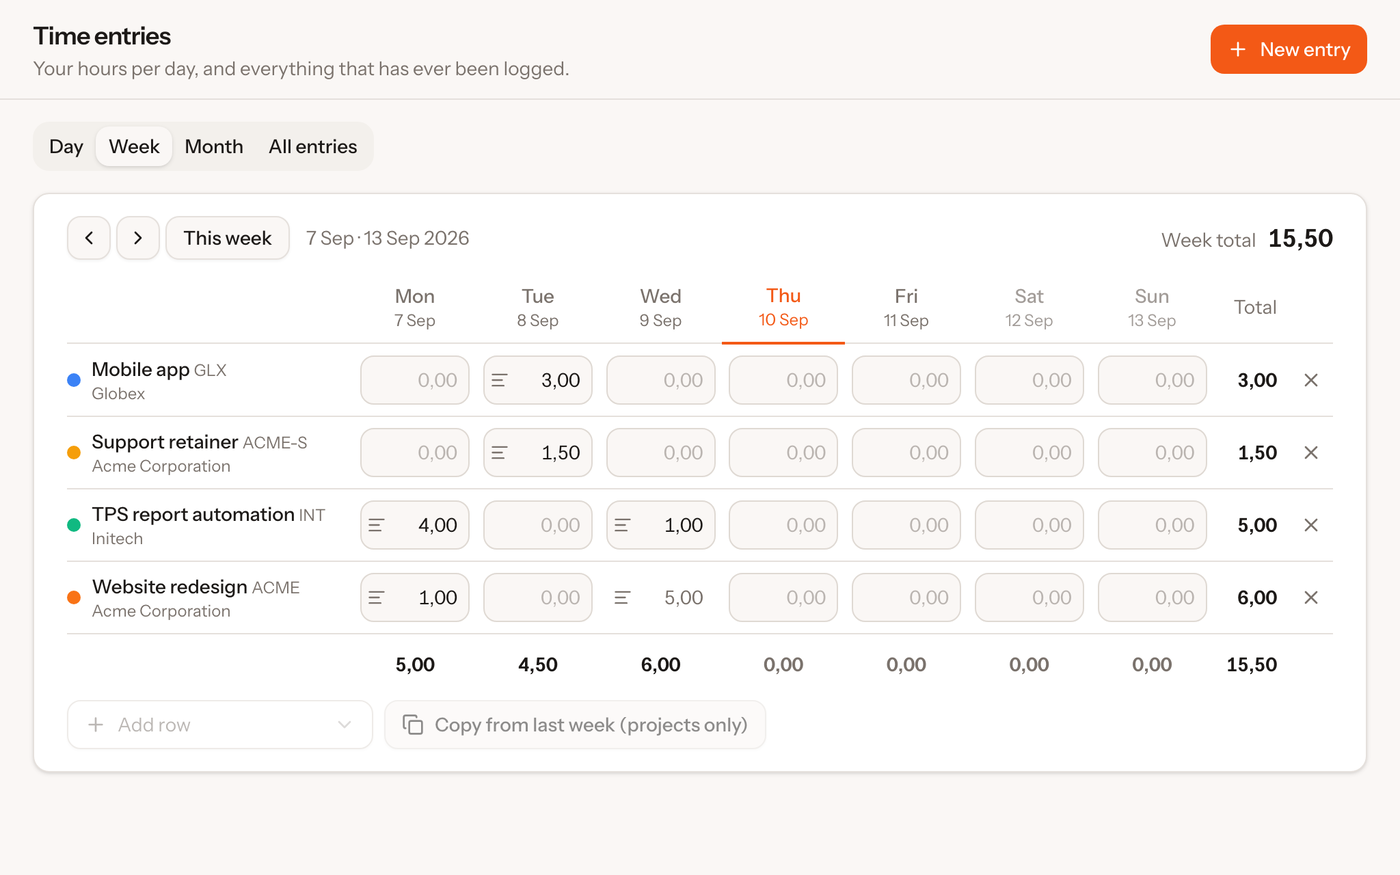
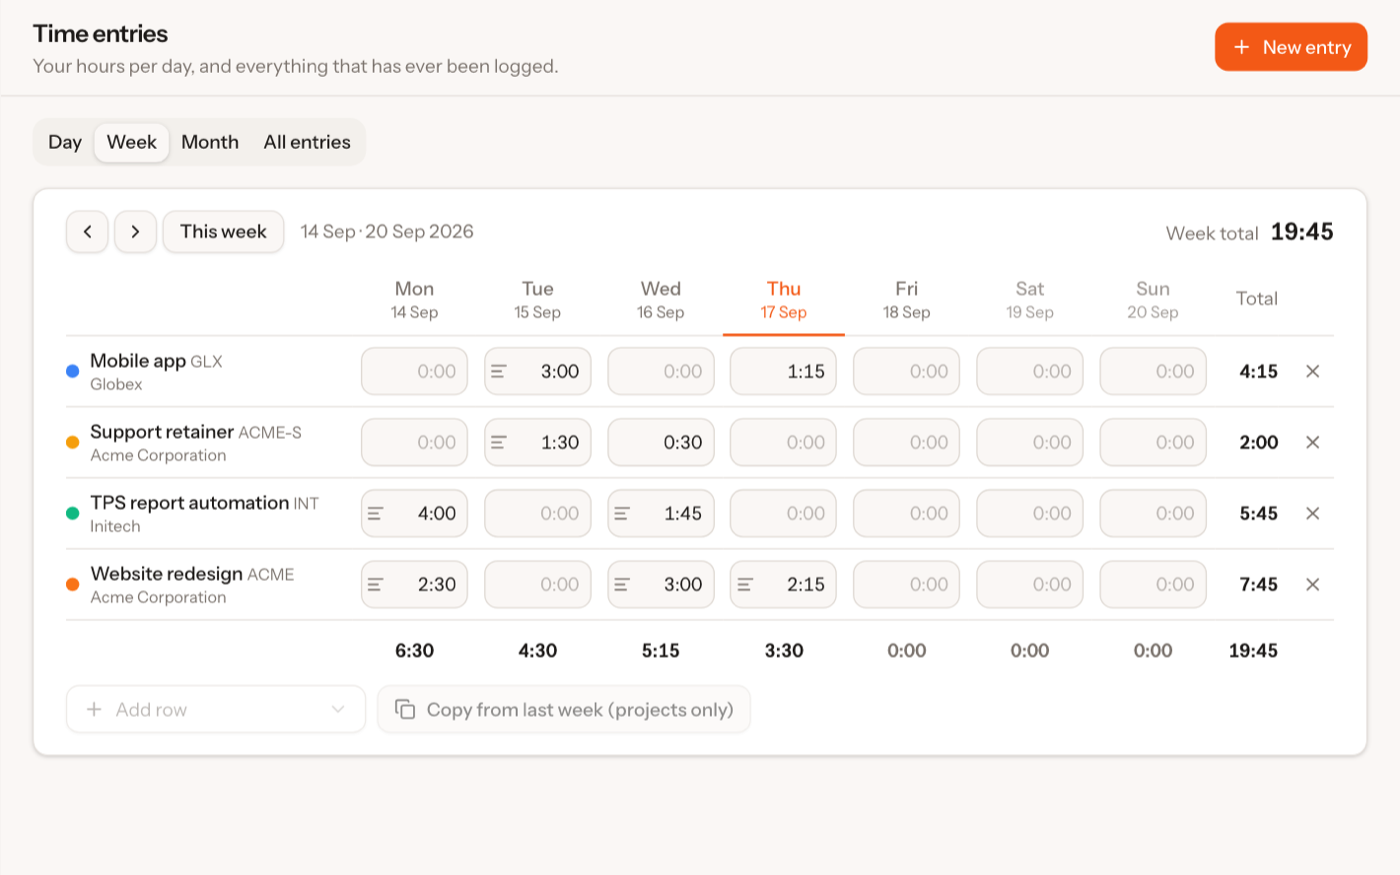
Product page: the day view and the play/pause pill in the screenshots and the copy
The hero and the Mac panel are rendered again by the app's snapshot
mode, which now draws the pill in the fake menu bar and gives the plain
panel a window background. The timesheet and dashboard cards are taken
again with hours as h:mm, and the copy tells about play and pause in the
menu bar, the day in the panel and typing hours as 1:30.

diff --git a/resources/js/pages/marketing/Home.vue b/resources/js/pages/marketing/Home.vue
@@ -30,13 +30,13 @@ const features = [
         icon: 'stopwatch',
         image: '/images/site/timesheet-card.png',
         title: 'Timesheet and timer',
-        text: 'A Monday to Sunday week strip with totals per day, a timer that keeps running on every page, and a filterable table of every hour you ever logged.',
+        text: 'A Monday to Sunday week with totals per day, a timer that keeps running on every page, and a filterable table of every hour you ever logged. Type 1:30, 1,5 or 1.5; it reads as 1:30 everywhere.',
     },
     {
         icon: 'desktop',
         image: '/images/mac/panel-light.png',
         title: 'Menu bar app for Mac',
-        text: 'Pick a client and a project, press play. The running time sits in your menu bar, and when your Mac sat idle the app asks whether to deduct it.',
+        text: 'A play and pause button in your menu bar with the running time next to it. One click opens your day: add an entry, press play on it, and when your Mac sat idle the app asks whether to deduct it.',
     },
     {
         icon: 'file-invoice',
@@ -66,7 +66,9 @@ const features = [
 
 const macPoints = [
     'Sign in once with your Kingtime account. The token lives in your keychain.',
-    'Client, project, notes, play. Stopping and starting again continues the same entry.',
+    'Play and pause straight from the menu bar. Play picks up the entry you worked on last.',
+    'Your day in the panel: a week strip with totals, the entries of the day, and a play button on each. Log half an hour by hand, press play, and it counts on from 0:30.',
+    'Or the whole week as a grid, the same timesheet as on the web.',
     'Idle for more than 15 minutes? On your return it offers to deduct that time, or to deduct and stop.',
     'Timers started on the web or through MCP show up in the menu bar too.',
     'Signed with a Developer ID and notarised by Apple, so it opens with a double-click. It updates itself.',
@@ -179,16 +181,16 @@ const macPoints = [
             >
                 <img
                     src="/images/mac/hero-light.png"
-                    alt="The macOS menu bar with the Kingtime status item showing 1:23, and the Kingtime panel under it: a running timer on Website redesign for Acme, client and project pickers, a notes field and a stop button."
+                    alt="The macOS menu bar with the Kingtime pause button showing 1:23, and the Kingtime panel under it: the week with a total per day and today's entries, a timer running on Website redesign for Acme."
                     width="1000"
-                    height="650"
+                    height="597"
                     class="block w-full dark:hidden"
                 />
                 <img
                     src="/images/mac/hero-dark.png"
                     alt="The Kingtime panel under the macOS menu bar, dark appearance."
                     width="1000"
-                    height="650"
+                    height="597"
                     class="hidden w-full dark:block"
                 />
             </div>
@@ -239,7 +241,7 @@ const macPoints = [
                         <p
                             class="bg-primary text-primary-foreground mr-auto max-w-[85%] rounded-2xl rounded-bl-sm px-3 py-2 shadow-sm"
                         >
-                            Done: 2,00 h on Website redesign · Acme, 10
+                            Done: 2:00 h on Website redesign · Acme, 10
                             September. Anything else?
                         </p>
                         <p
@@ -344,9 +346,9 @@ const macPoints = [
             <div class="order-1 flex items-end justify-center gap-4 md:order-2">
                 <img
                     src="/images/mac/panel-dark.png"
-                    alt="The Kingtime panel with a running timer, dark appearance."
-                    width="640"
-                    height="518"
+                    alt="The Kingtime panel with today's entries and a running timer, dark appearance."
+                    width="760"
+                    height="728"
                     class="w-full max-w-xs min-w-0 rounded-xl shadow-2xl ring-1 ring-white/10"
                 />
                 <img

diff --git a/mac/Kingtime/Views/SnapshotViews.swift b/mac/Kingtime/Views/SnapshotViews.swift
@@ -22,13 +22,9 @@ struct HeroSnapshotView: View {
                 Text("View")
                 Text("Go")
                 Spacer()
-                HStack(spacing: 5) {
-                    Image("MenuBarIcon")
-                    Text("1:23").monospacedDigit()
+                if let pill = StatusItemImage.image(for: .running, time: "1:23") {
+                    Image(nsImage: pill)
                 }
-                .padding(.horizontal, 7)
-                .padding(.vertical, 3)
-                .background(Color.white.opacity(0.18), in: RoundedRectangle(cornerRadius: 5))
                 Text("Thu 10 Sep  14:02").monospacedDigit()
             }
             .font(.system(size: 13))
@@ -46,7 +42,7 @@ struct HeroSnapshotView: View {
                     .overlay(RoundedRectangle(cornerRadius: 12).strokeBorder(Color.black.opacity(0.12)))
                     .shadow(color: .black.opacity(0.25), radius: 22, y: 12)
                     .padding(.top, 6)
-                    .padding(.trailing, 118)
+                    .padding(.trailing, 24)
             }
             .padding(.bottom, 32)
         }

diff --git a/mac/Kingtime/Model/TimerStore.swift b/mac/Kingtime/Model/TimerStore.swift
@@ -184,7 +184,7 @@ final class TimerStore {
             timer: DesktopTimer(
                 id: 1, projectId: 1, projectName: "Website redesign", projectColor: "#F2622A",
                 clientId: 1, clientName: "Acme", spentOn: "2026-09-10", notes: "Homepage hero",
-                secondsBeforeTimer: 0, timerStartedAt: Date().addingTimeInterval(-(1 * 3600 + 23 * 60 + 45))
+                secondsBeforeTimer: 0, timerStartedAt: Date().addingTimeInterval(-(1 * 3600 + 23 * 60 + 8))
             ),
             lastEntry: nil,
             serverTime: Date()

diff --git a/mac/Kingtime/KingtimeApp.swift b/mac/Kingtime/KingtimeApp.swift
@@ -354,6 +354,7 @@ final class AppDelegate: NSObject, NSApplicationDelegate {
                 IdlePromptSnapshotView()
             default:
                 MenuBarView(store: store, week: week, day: day, updater: updaterController.updater)
+                    .background(Color(nsColor: .windowBackgroundColor))
             }
         }
         .environment(\.controlActiveState, .key)

diff --git a/mac/README.md b/mac/README.md
@@ -10,7 +10,7 @@
 </p>
 
 <p align="center">
-  <img src="design/panel.png" width="320" alt="The Kingtime panel: a running timer on a project, client and project pickers, a notes field and a stop button.">
+  <img src="design/panel.png" width="380" alt="The Kingtime panel: the week with a total per day, today's entries with a play button on each, and a timer running on one of them.">
 </p>
 
 | | |
